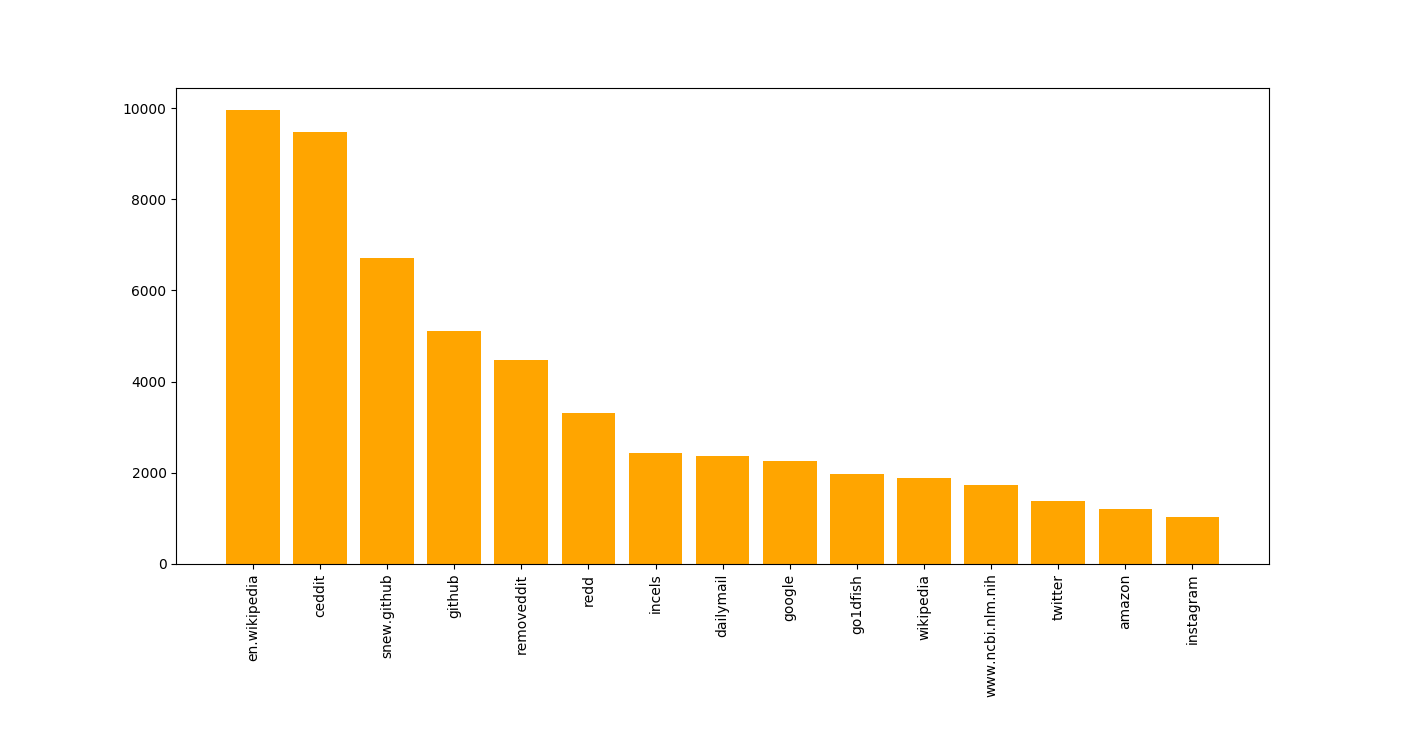
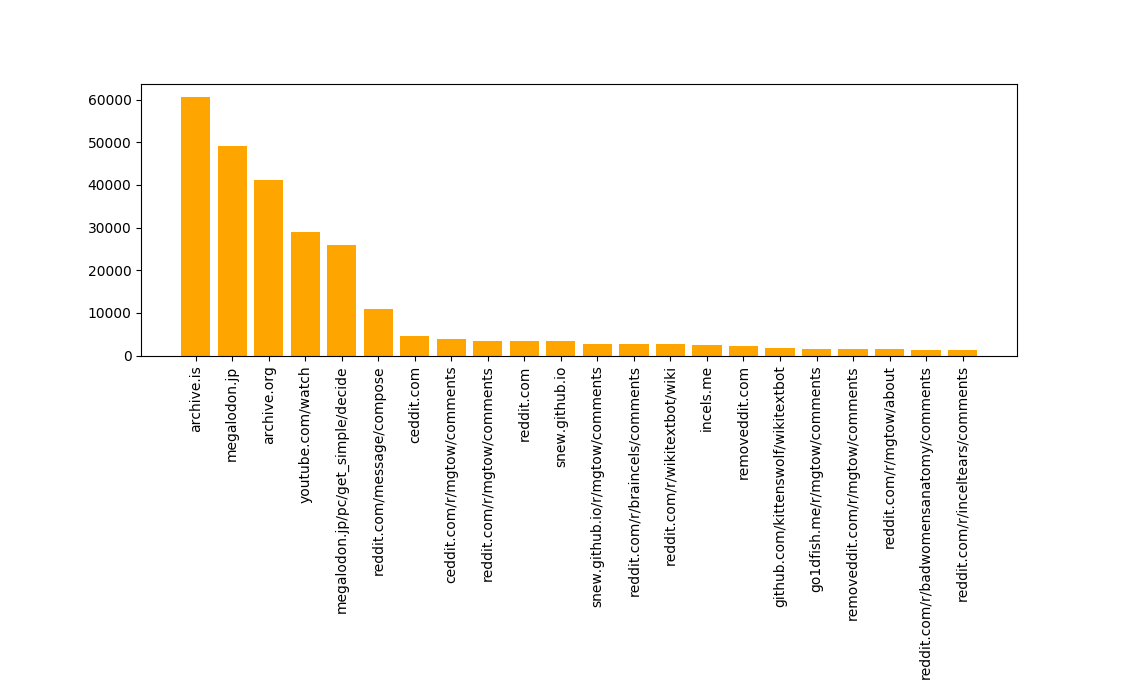
New graphs thanks to cleaning urls

diff --git a/IncelsSQL.py b/IncelsSQL.py
@@ -2,6 +2,9 @@ import mysql.connector
 from config import config # Dictionary with mysql config
 import tldextract
 import re
+from urllib.parse import urlparse, unquote
+import os
+from pathlib import PurePosixPath
 
 class IncelsSQL:
     def __init__(self):
@@ -28,6 +31,30 @@ class IncelsSQL:
         regex += r')'
 
         return regex
+
+    def __process_domain(self, domain, path):
+
+        if len(path) >= 2:
+                domain += '/' + path[1]
+
+        if len(path) >= 3:
+            domain += '/' + path[2]
+
+        if len(path) >= 4:
+            domain += '/' + path[3]
+
+        domain = domain.lower()
+        
+        if 'redd' in domain:
+            domain = domain.replace('redd.it', 'reddit.com')
+            domain = domain.replace('np.reddit', 'reddit')
+
+        if domain[-1] == ')':
+            domain = domain[:-1]
+        if domain[-2] == ')':
+            domain = domain[:-2]
+        
+        return domain
 
     def close_connection(self):
         self.cnx.close()
@@ -60,7 +87,7 @@ class IncelsSQL:
 
         return urls
 
-    def get_url_root(self):
+    def get_url_root(self): # Dont use this table
         cursor = self.cnx.cursor()
 
         query = ("SELECT url FROM url_statistics")
@@ -98,7 +125,7 @@ class IncelsSQL:
 
         for body in cursor:
             comment = body[0].decode('UTF-8')
-            
+
             found_urls = find_urls.findall(comment)
 
             for url in found_urls:
@@ -106,7 +133,7 @@ class IncelsSQL:
 
         return urls
 
-    def get_unique_urls_from_comments(self, urls):
+    def get_domains_from_comments(self, urls):
 
         unique_urls = {}
 
@@ -124,4 +151,28 @@ class IncelsSQL:
                 unique_urls[domain] = 1
 
         return dict(sorted(unique_urls.items(), key=lambda item: item[1], reverse=True))
-            
+    
+
+    def get_domains_path_from_comments(self, urls):
+
+        unique_urls = {}
+
+        for url in urls:
+            ext = tldextract.extract(url)
+
+            if ext.subdomain != '' and ext.subdomain != 'www':
+                domain = ext.subdomain + '.' + ext.domain + '.' + ext.suffix
+            else:
+                domain = ext.domain + '.' + ext.suffix
+
+            path = PurePosixPath(unquote(urlparse(url).path)).parts
+
+            domain = self.__process_domain(domain, path)
+
+            if domain in unique_urls:
+                unique_urls[domain] += 1
+            else:
+                unique_urls[domain] = 1
+
+        return dict(sorted(unique_urls.items(), key=lambda item: item[1], reverse=True))
+         

diff --git a/main.py b/main.py
@@ -31,8 +31,12 @@ urls = connection.get_urls_from_comments()
 print('Number of urls: ', len(urls))
 print(urls[randint(0,len(urls))])
 
-unique_urls = connection.get_unique_urls_from_comments(urls)
-print(unique_urls)
+# unique_urls = connection.get_domains_from_comments(urls)
+unique_urls = connection.get_domains_path_from_comments(urls)
+# print(unique_urls)
+
+plot_dictionary(unique_urls, 1000, 1000000)
+plot_dictionary(unique_urls, 400, 1000)
 plot_dictionary(unique_urls, 200, 400)
 plot_dictionary(unique_urls, 100, 200)
 
